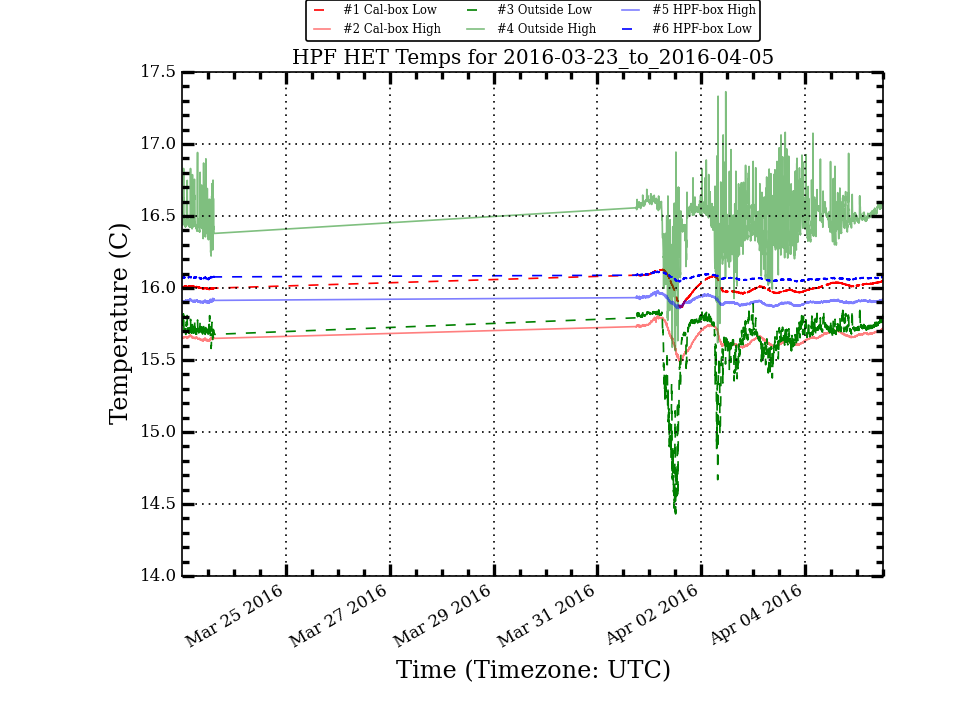
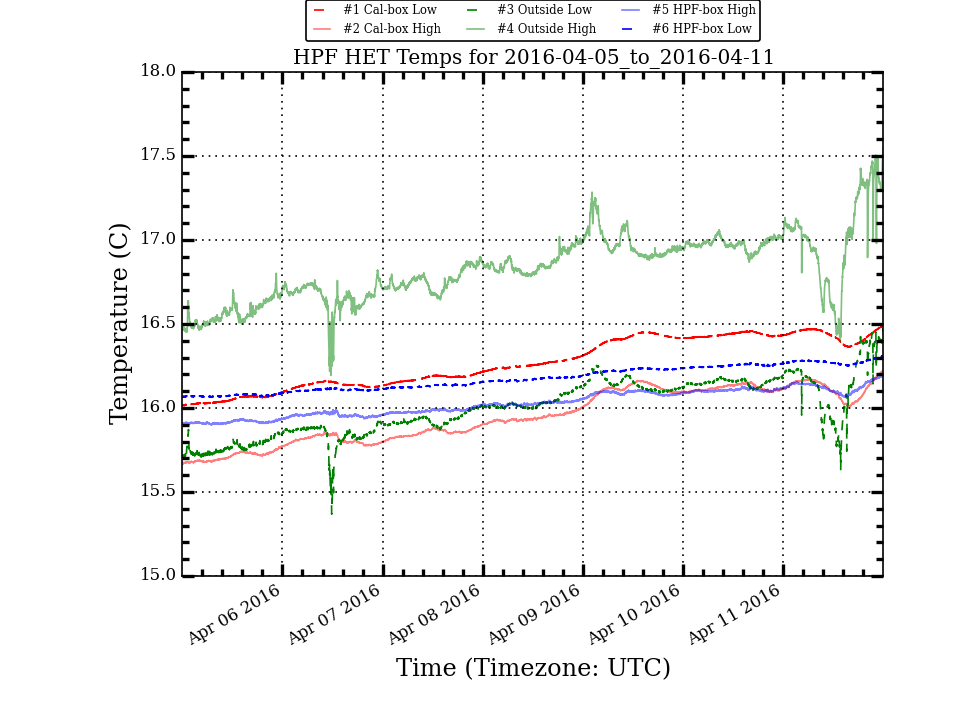
Update HPF Temp Plots

diff --git a/research/hpf_temps/plots/LakeShoreLogTotal_week_stats.html b/research/hpf_temps/plots/LakeShoreLogTotal_week_stats.html
@@ -10,56 +10,56 @@
  </TR>
  <TR>
   <TD>Cal_Low</TD>
-  <TD>16.012</TD>
-  <TD>0.048</TD>
-  <TD>16.007</TD>
-  <TD>16.130</TD>
-  <TD>15.865</TD>
-  <TD>0.265</TD>
+  <TD>16.272</TD>
+  <TD>0.148</TD>
+  <TD>16.255</TD>
+  <TD>16.493</TD>
+  <TD>16.013</TD>
+  <TD>0.480</TD>
  </TR>
  <TR>
   <TD>Cal_High</TD>
-  <TD>15.659</TD>
-  <TD>0.058</TD>
-  <TD>15.656</TD>
-  <TD>15.808</TD>
-  <TD>15.487</TD>
-  <TD>0.321</TD>
+  <TD>15.952</TD>
+  <TD>0.159</TD>
+  <TD>15.934</TD>
+  <TD>16.224</TD>
+  <TD>15.666</TD>
+  <TD>0.558</TD>
  </TR>
  <TR>
   <TD>Out_Low</TD>
-  <TD>15.654</TD>
-  <TD>0.203</TD>
-  <TD>15.707</TD>
-  <TD>15.892</TD>
-  <TD>14.422</TD>
-  <TD>1.470</TD>
+  <TD>16.005</TD>
+  <TD>0.169</TD>
+  <TD>16.008</TD>
+  <TD>16.471</TD>
+  <TD>15.368</TD>
+  <TD>1.103</TD>
  </TR>
  <TR>
   <TD>Out_High</TD>
-  <TD>16.451</TD>
-  <TD>0.167</TD>
-  <TD>16.468</TD>
-  <TD>17.363</TD>
-  <TD>15.564</TD>
-  <TD>1.799</TD>
+  <TD>16.832</TD>
+  <TD>0.203</TD>
+  <TD>16.840</TD>
+  <TD>17.552</TD>
+  <TD>16.194</TD>
+  <TD>1.358</TD>
  </TR>
  <TR>
   <TD>HPF_High</TD>
-  <TD>15.908</TD>
-  <TD>0.022</TD>
-  <TD>15.904</TD>
-  <TD>15.983</TD>
-  <TD>15.857</TD>
-  <TD>0.126</TD>
+  <TD>16.029</TD>
+  <TD>0.076</TD>
+  <TD>16.027</TD>
+  <TD>16.196</TD>
+  <TD>15.900</TD>
+  <TD>0.296</TD>
  </TR>
  <TR>
   <TD>HPF_Low</TD>
-  <TD>16.070</TD>
-  <TD>0.015</TD>
-  <TD>16.068</TD>
-  <TD>16.116</TD>
-  <TD>16.043</TD>
-  <TD>0.073</TD>
+  <TD>16.176</TD>
+  <TD>0.071</TD>
+  <TD>16.170</TD>
+  <TD>16.310</TD>
+  <TD>16.064</TD>
+  <TD>0.246</TD>
  </TR>
 </TABLE>

diff --git a/research/hpf_temps/plots/LakeShoreLogTotal_month_stats.html b/research/hpf_temps/plots/LakeShoreLogTotal_month_stats.html
@@ -10,56 +10,56 @@
  </TR>
  <TR>
   <TD>Cal_Low</TD>
-  <TD>16.076</TD>
-  <TD>0.114</TD>
-  <TD>16.037</TD>
-  <TD>16.485</TD>
+  <TD>16.137</TD>
+  <TD>0.149</TD>
+  <TD>16.120</TD>
+  <TD>16.493</TD>
   <TD>15.830</TD>
-  <TD>0.655</TD>
+  <TD>0.663</TD>
  </TR>
  <TR>
   <TD>Cal_High</TD>
-  <TD>15.736</TD>
-  <TD>0.125</TD>
-  <TD>15.695</TD>
+  <TD>15.801</TD>
+  <TD>0.164</TD>
+  <TD>15.785</TD>
   <TD>16.505</TD>
   <TD>15.470</TD>
   <TD>1.035</TD>
  </TR>
  <TR>
   <TD>Out_Low</TD>
-  <TD>15.747</TD>
-  <TD>0.166</TD>
-  <TD>15.743</TD>
-  <TD>16.051</TD>
+  <TD>15.818</TD>
+  <TD>0.208</TD>
+  <TD>15.804</TD>
+  <TD>16.471</TD>
   <TD>14.422</TD>
-  <TD>1.629</TD>
+  <TD>2.049</TD>
  </TR>
  <TR>
   <TD>Out_High</TD>
-  <TD>16.538</TD>
-  <TD>0.200</TD>
-  <TD>16.530</TD>
-  <TD>17.585</TD>
+  <TD>16.610</TD>
+  <TD>0.247</TD>
+  <TD>16.595</TD>
+  <TD>17.552</TD>
   <TD>15.511</TD>
-  <TD>2.074</TD>
+  <TD>2.041</TD>
  </TR>
  <TR>
   <TD>HPF_High</TD>
-  <TD>15.928</TD>
-  <TD>0.056</TD>
-  <TD>15.916</TD>
-  <TD>16.091</TD>
+  <TD>15.964</TD>
+  <TD>0.069</TD>
+  <TD>15.950</TD>
+  <TD>16.196</TD>
   <TD>15.813</TD>
-  <TD>0.278</TD>
+  <TD>0.383</TD>
  </TR>
  <TR>
   <TD>HPF_Low</TD>
-  <TD>16.085</TD>
-  <TD>0.051</TD>
-  <TD>16.076</TD>
-  <TD>16.212</TD>
-  <TD>15.994</TD>
-  <TD>0.218</TD>
+  <TD>16.119</TD>
+  <TD>0.062</TD>
+  <TD>16.106</TD>
+  <TD>16.310</TD>
+  <TD>16.000</TD>
+  <TD>0.310</TD>
  </TR>
 </TABLE>
